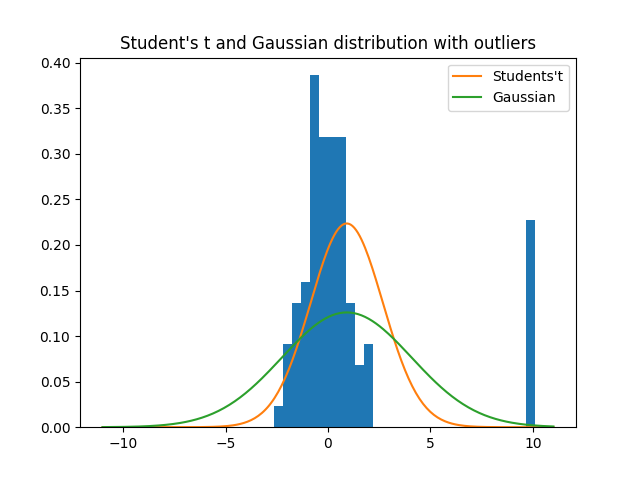
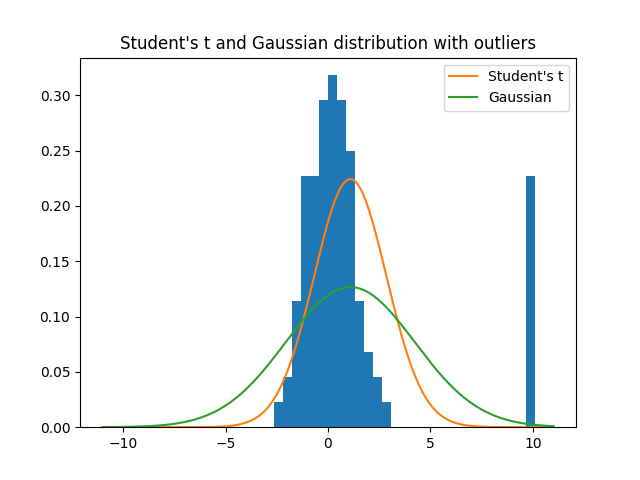
Update README

diff --git a/probability_distribution/draw_students_t_distribution.py b/probability_distribution/draw_students_t_distribution.py
@@ -49,7 +49,7 @@ def main():
     var = np.var(x_n)
     precision = 1 / np.sqrt(var)
     stu_density = calculate_students_t_distribution(x_vals, mu, precision, 100.0)
-    plt.plot(x_vals, stu_density, label=r"Students't")
+    plt.plot(x_vals, stu_density, label=r"Student's t")
     gauss_density = draw_gaussian_distribution.calculate_gaussian_distribution(
         x_vals, mu, np.sqrt(var)
     )

diff --git a/probability_distribution/README.md b/probability_distribution/README.md
@@ -393,6 +393,24 @@ Parameters $a$ and $b$ are being updated, and it can be seen that the accuracy i
 
 <br></br>
 
+## Student's t distribution
+We have seen that the conjugate prior of the precision parameter of the Gaussian distribution is the gamma distribution; placing it on a one-variable Gaussian distribution $\mathcal{N}(x|\mu,\tau^{-1})$, taking the gamma distribution $Gam(\tau|a,b)$ as the prior of precision, from which, with integral elimination of precision and substitution of the variable $z=\tau[b+(x-u)^2/2]$, the peripheral distribution of $x$ becomes
+
+$$
+\begin{align*}
+p(x|\mu,a,b)&=\int_{0}^{\infty} \mathcal{N}(x|\mu,\tau^{-1}) Gam(\tau|a,b)\text{d}\tau \\
+&=\int_{0}^{\infty} \frac{b^a e^{-br}\tau^{a-1}}{\gamma(a)} \left(\frac{\tau}{2\pi}\right)^{1/2}exp\left\{-\frac{\tau}{2}(x-\mu)^2\right\}\text{d}\tau \\
+&=\frac{b^a}{\gamma(a)} \left(\frac{1}{2\pi}\right)^{1/2} \left(b+\frac{(x-\mu)^2}{2}\right)^{-a-1/2} \gamma(a+1/2) \tag{39}
+\end{align*}
+$$
+
+<img src="images/student's_t.png" width='600'>
+
+<img src="images/student's_t_with_outliers.png" width='600'>
+
+
+<br></br>
+
 ## References
 - [Pattern Recognition and Machine Learning](https://www.microsoft.com/en-us/research/uploads/prod/2006/01/Bishop-Pattern-Recognition-and-Machine-Learning-2006.pdf)
 - [Python Plotting Binomial Distributions](https://www.anarchive-beta.com/entry/2022/01/14/073000)
